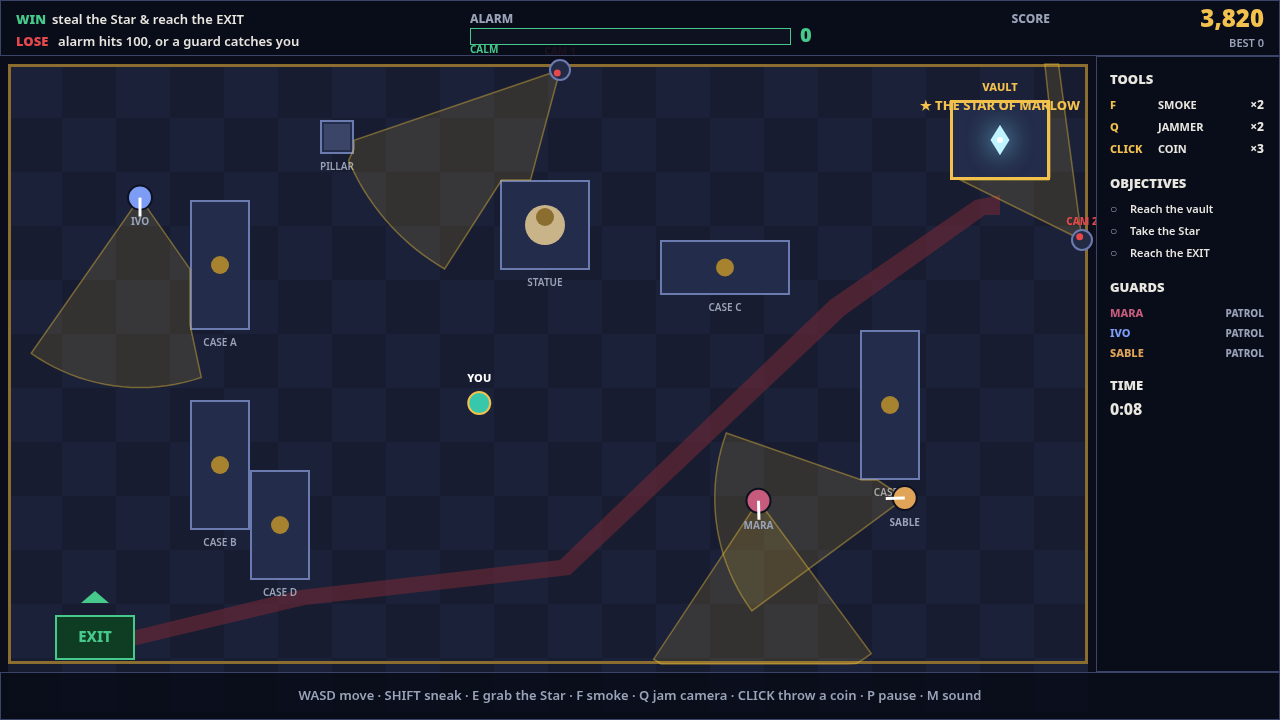
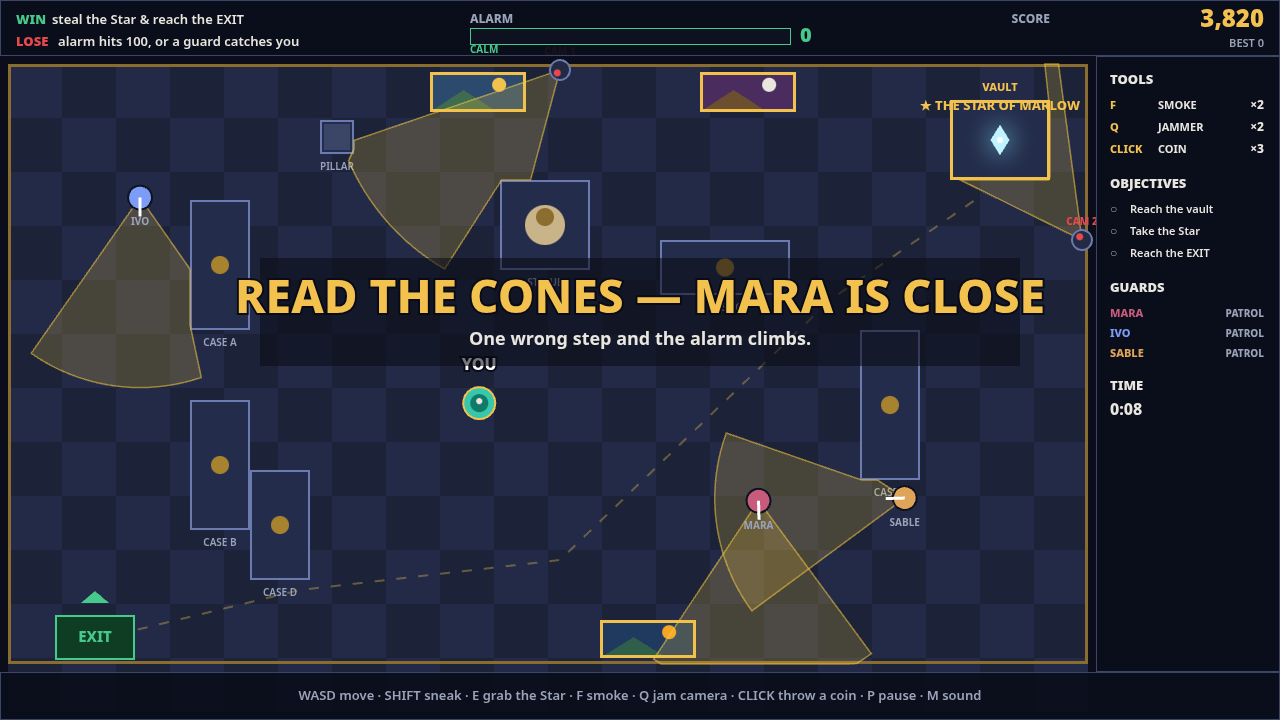
OPAL HOUR v2 — remove red carpet, bigger thief, moment text in all shots, spotted alarm 34, Star visible in vault cover

diff --git a/game/src/render.js b/game/src/render.js
@@ -4,6 +4,9 @@
 // states. The rules for legibility: gold means loot and score, red means
 // danger, teal means the thief and safety, and the moment that matters is
 // written across the middle in letters big enough to read at a glance.
+// The thief is drawn big (radius 16) with a bold outlined YOU label so the
+// player is the first thing the eye finds in every frame, even at the small
+// size the judge reads the screenshots at.
 import { VIEW, HUD, ROOM, COLOUR, SCORE, BEST_KEY } from './config.js';
 import { OBSTACLES, OPAL, EXIT_ZONE } from './level.js';
 import { conePolygon } from './vision.js';
@@ -34,6 +37,18 @@ export function createRenderer(canvas) {
     ctx.fillText(str, x, y);
   }
 
+  // Bold text with a dark outline, so a label reads over any background.
+  function outlinedText(str, x, y, size, colour, align) {
+    ctx.font = `800 ${size}px system-ui, sans-serif`;
+    ctx.textAlign = align ?? 'left';
+    ctx.textBaseline = 'middle';
+    ctx.lineWidth = 4;
+    ctx.strokeStyle = 'rgba(8, 10, 20, 0.9)';
+    ctx.strokeText(str, x, y);
+    ctx.fillStyle = colour;
+    ctx.fillText(str, x, y);
+  }
+
   function drawFloor(t) {
     for (let y = ROOM.y; y < ROOM.y + ROOM.height; y += TILE) {
       for (let x = ROOM.x; x < ROOM.x + ROOM.width; x += TILE) {
@@ -42,23 +57,19 @@ export function createRenderer(canvas) {
         ctx.fillRect(x, y, TILE, TILE);
       }
     }
-    // A deep-red carpet runs from the door to the vault: the thief's road.
-    ctx.fillStyle = 'rgba(120, 42, 54, 0.55)';
+    // No carpet: a thin gold dashed line marks the thief's road from the
+    // EXIT to the vault instead — a guide, not a slash across the room.
+    ctx.strokeStyle = 'rgba(242, 193, 78, 0.35)';
+    ctx.lineWidth = 2;
+    ctx.setLineDash([10, 12]);
     ctx.beginPath();
     ctx.moveTo(95, 640);
     ctx.lineTo(300, 590);
     ctx.lineTo(560, 560);
     ctx.lineTo(830, 300);
     ctx.lineTo(975, 200);
-    ctx.lineTo(1000, 195);
-    ctx.lineTo(1000, 215);
-    ctx.lineTo(985, 215);
-    ctx.lineTo(845, 315);
-    ctx.lineTo(570, 575);
-    ctx.lineTo(305, 605);
-    ctx.lineTo(95, 655);
-    ctx.closePath();
-    ctx.fill();
+    ctx.stroke();
+    ctx.setLineDash([]);
     // Gold trim around the room.
     ctx.strokeStyle = COLOUR.trim;
     ctx.lineWidth = 3;
@@ -79,6 +90,34 @@ export function createRenderer(canvas) {
     ctx.lineTo(EXIT_ZONE.x + EXIT_ZONE.width / 2, EXIT_ZONE.y - 24);
     ctx.closePath();
     ctx.fill();
+  }
+
+  // Decorative wall paintings: gold-framed canvases on the wall bands.
+  // They fill the empty wall space; they block nothing and hide nothing.
+  function drawPaintings() {
+    const paintings = [
+      { x: 430, y: 72, w: 96, h: 40, sky: '#2c4a6e', hill: '#3f6b4f', sun: '#f2c14e' },
+      { x: 700, y: 72, w: 96, h: 40, sky: '#4a2c5e', hill: '#6b4f2f', sun: '#e8e6df' },
+      { x: 600, y: 620, w: 96, h: 38, sky: '#1f3a5e', hill: '#2f5e4a', sun: '#f5a524' },
+    ];
+    for (const p of paintings) {
+      ctx.fillStyle = p.sky;
+      ctx.fillRect(p.x, p.y, p.w, p.h);
+      ctx.fillStyle = p.hill;
+      ctx.beginPath();
+      ctx.moveTo(p.x, p.y + p.h);
+      ctx.lineTo(p.x + p.w * 0.35, p.y + p.h * 0.45);
+      ctx.lineTo(p.x + p.w * 0.7, p.y + p.h);
+      ctx.closePath();
+      ctx.fill();
+      ctx.fillStyle = p.sun;
+      ctx.beginPath();
+      ctx.arc(p.x + p.w * 0.72, p.y + p.h * 0.32, 7, 0, Math.PI * 2);
+      ctx.fill();
+      ctx.strokeStyle = COLOUR.gold;
+      ctx.lineWidth = 3;
+      ctx.strokeRect(p.x + 1.5, p.y + 1.5, p.w - 3, p.h - 3);
+    }
   }
 
   function drawObstacles(t) {
@@ -119,7 +158,9 @@ export function createRenderer(canvas) {
   }
 
   function drawOpal(state) {
-    if (state.thief.hasStar) return;
+    // The Star stays visible in the vault when the shot wants it there
+    // (the cover, after the grab): showOpal keeps the loot in the money shot.
+    if (state.thief.hasStar && !state.showOpal) return;
     const pulse = 1 + 0.18 * Math.sin(state.t * 4);
     const r = 13 * pulse;
     ctx.save();
@@ -162,8 +203,8 @@ export function createRenderer(canvas) {
         ? 'rgba(229, 72, 77, 0.30)'
         : susp
           ? 'rgba(245, 165, 36, 0.22)'
-          : 'rgba(245, 200, 60, 0.13)';
-      const edge = alert ? 'rgba(229, 72, 77, 0.75)' : susp ? 'rgba(245, 165, 36, 0.6)' : 'rgba(245, 200, 60, 0.4)';
+          : 'rgba(245, 200, 60, 0.20)';
+      const edge = alert ? 'rgba(229, 72, 77, 0.75)' : susp ? 'rgba(245, 165, 36, 0.6)' : 'rgba(245, 200, 60, 0.55)';
       drawCone(g.x, g.y, g.angle, GUARD.visionHalf, GUARD.visionRange, fill, edge);
     }
     for (const g of state.guards) {
@@ -201,8 +242,8 @@ export function createRenderer(canvas) {
       if (c.jammed <= 0) {
         drawCone(
           c.x, c.y, c.angle, CAMERA.half, CAMERA.range,
-          c.seeing ? 'rgba(229, 72, 77, 0.30)' : 'rgba(245, 200, 60, 0.13)',
-          c.seeing ? 'rgba(229, 72, 77, 0.75)' : 'rgba(245, 200, 60, 0.4)',
+          c.seeing ? 'rgba(229, 72, 77, 0.30)' : 'rgba(245, 200, 60, 0.20)',
+          c.seeing ? 'rgba(229, 72, 77, 0.75)' : 'rgba(245, 200, 60, 0.55)',
         );
       }
       ctx.fillStyle = c.jammed > 0 ? '#3a4568' : '#222a44';
@@ -245,28 +286,44 @@ export function createRenderer(canvas) {
     }
   }
 
+  // The thief, drawn BIG: a 16 px teal figure with a gold ring, a dark cowl
+  // and a bold outlined YOU label above, so the player is unmistakable at
+  // a glance — even in a 300 px contact sheet. The carried Star is 1.5x.
   function drawThief(state) {
     const t = state.thief;
     ctx.fillStyle = COLOUR.teal;
     ctx.beginPath();
-    ctx.arc(t.x, t.y, 11, 0, Math.PI * 2);
+    ctx.arc(t.x, t.y, 16, 0, Math.PI * 2);
     ctx.fill();
     ctx.strokeStyle = COLOUR.gold;
     ctx.lineWidth = 2;
     ctx.stroke();
-    // The Star, carried.
+    // Hooded silhouette: a dark cowl and a pale face dot.
+    ctx.fillStyle = '#0f7a68';
+    ctx.beginPath();
+    ctx.arc(t.x, t.y, 9, 0, Math.PI * 2);
+    ctx.fill();
+    ctx.fillStyle = '#e8e6df';
+    ctx.beginPath();
+    ctx.arc(t.x, t.y - 2, 3, 0, Math.PI * 2);
+    ctx.fill();
+    // The Star, carried high.
     if (t.hasStar) {
+      ctx.save();
+      ctx.shadowColor = '#7fe7ff';
+      ctx.shadowBlur = 14;
       ctx.fillStyle = '#bff3ff';
       ctx.beginPath();
-      ctx.moveTo(t.x, t.y - 18);
-      ctx.lineTo(t.x + 5, t.y - 11);
+      ctx.moveTo(t.x, t.y - 26);
+      ctx.lineTo(t.x + 7.5, t.y - 15);
       ctx.lineTo(t.x, t.y - 4);
-      ctx.lineTo(t.x - 5, t.y - 11);
+      ctx.lineTo(t.x - 7.5, t.y - 15);
       ctx.closePath();
       ctx.fill();
+      ctx.restore();
     }
-    text('YOU', t.x, t.y - 24, 11, '#ffffff', 'center', 800);
-    if (t.sneaking) text('sneaking', t.x, t.y + 24, 10, COLOUR.teal, 'center', 700);
+    outlinedText('YOU', t.x, t.y - 38, 16, '#ffffff', 'center');
+    if (t.sneaking) text('sneaking', t.x, t.y + 30, 10, COLOUR.teal, 'center', 700);
   }
 
   function drawTopBar(state) {
@@ -355,7 +412,11 @@ export function createRenderer(canvas) {
     const alpha = Math.min(1, m.ttl / 0.8);
     ctx.save();
     ctx.globalAlpha = alpha;
-    text(m.text, VIEW.width / 2, 300, 46, m.colour, 'center', 900);
+    // A dark band behind the moment so it reads over any part of the room.
+    ctx.fillStyle = 'rgba(8, 10, 20, 0.55)';
+    const bandW = 760;
+    ctx.fillRect(VIEW.width / 2 - bandW / 2, 258, bandW, 108);
+    outlinedText(m.text, VIEW.width / 2, 300, 46, m.colour, 'center');
     if (m.sub) text(m.sub, VIEW.width / 2, 340, 18, COLOUR.ink, 'center', 700);
     ctx.restore();
   }
@@ -377,6 +438,7 @@ export function createRenderer(canvas) {
     drawFloor(state.t);
     drawExit();
     drawObstacles(state.t);
+    drawPaintings();
     drawOpal(state);
     drawSmokeAndCoins(state);
     drawCameras(state);

diff --git a/game/src/shots.js b/game/src/shots.js
@@ -4,6 +4,9 @@
 // guard's suspicion is high), so the frame is what a short game really looks
 // like and the same seed always gives the same frame. Nothing here fakes a
 // state: the alarm, the cones and the guards are whatever the simulation made.
+// Every shot carries a big moment: the cover shouts the grab, the approach
+// reads the cones, the spotted shot screams SPOTTED! with the alarm already
+// climbing, and the escape ends on the CLEAN GETAWAY win screen.
 import { STEP } from './config.js';
 import { createWorld, endRun } from './main.js';
 import { EXIT_ZONE } from './level.js';
@@ -34,11 +37,14 @@ function driveTo(world, tx, ty, dt) {
   return false;
 }
 
-// The grab, exactly as the E key does it in the real game.
+// The grab, exactly as the E key does it in the real game. The Star stays
+// visible in the vault for the cover shot (showOpal), so the money shot
+// shows the loot, not an empty case.
 function applyGrab(world) {
   if (!grabStar(world.thief)) return false;
   spikeAlarm(world.alarm, 20);
   for (const g of world.guards) sendToInvestigate(g, 1000, 140);
+  world.showOpal = true;
   world.moment = { text: 'THE STAR IS YOURS — RUN!', sub: 'Every guard is coming to the vault.', colour: '#f2c14e', ttl: 3 };
   sfx.grab();
   return true;
@@ -123,7 +129,7 @@ const ROUTES = {
     // Hide west of CASE D until Mara is up the west side, cross while she is
     // far away, then wait at the vault approach until Sable is south. The
     // bottom lane runs at y=610: CASE D's south edge is y=580, and a thief
-    // needs 11 px of clearance, so y=580 itself is a wall.
+    // needs 16 px of clearance, so y=580 itself is a wall.
     waypoints: [
       { x: 230, y: 545, wait: maraWest },
       { x: 230, y: 610 },
@@ -153,18 +159,23 @@ const ROUTES = {
     waypoints: [
       { x: 320, y: 610 },
       { x: 540, y: 610 },
-      { x: 540, y: 360 },
+      // Hold at the crossing until a guard goes ALERT, then run for the
+      // bottom lane: the thief (168 px/s) outruns the chase (138 px/s), so
+      // the frame shows the pursuit with the alarm already climbing.
+      { x: 540, y: 360, wait: (world) => world.guards.some((g) => g.state === STATE_ALERT) },
+      { x: 300, y: 610 },
     ],
     grab: false,
     settle: 0,
     max: 40,
-    // Let the alarm climb and Mara close in for half a second after the
-    // alert lands, so the frame shows the danger instead of its first tick.
+    // Let the alarm climb and Mara close in for a second and a half after
+    // the alert lands, so the frame shows the danger instead of its first
+    // tick: the alarm (22/s on alert) reaches ~30, SUSPICIOUS amber.
     until: (world) => {
       const a = world.guards.find((g) => g.state === STATE_ALERT);
       if (!a) return false;
       if (world._alertAt == null) world._alertAt = world.time;
-      return world.time - world._alertAt >= 0.5;
+      return world.time - world._alertAt >= 1.5;
     },
   },
   escape: {
@@ -198,6 +209,7 @@ export function stageShot(name, world) {
   const fresh = createWorld(world.seed);
   Object.assign(world, fresh);
   world.screen = 'play';
+  world.showOpal = false;
   let leg = 0;
   let settled = 0;
   let grabbed = false;
@@ -232,6 +244,14 @@ export function stageShot(name, world) {
     },
     route.max,
   );
+  // Every shot gets its big moment, set fresh here so the text is at full
+  // strength in the frame (the cover's grab moment is already set by
+  // applyGrab; the escape's moment is the CLEAN GETAWAY win screen).
+  if (name === 'approach') {
+    world.moment = { text: 'READ THE CONES — MARA IS CLOSE', sub: 'One wrong step and the alarm climbs.', colour: '#f2c14e', ttl: 3 };
+  } else if (name === 'spotted') {
+    world.moment = { text: 'SPOTTED!', sub: 'Mara is coming — break line of sight!', colour: '#e5484d', ttl: 3 };
+  }
   // The escape ends on the win screen; the rest stay in play.
   if (world.screen === 'play' && name === 'escape') {
     // The thief made it out: score the run as the live game would.

diff --git a/game/src/config.js b/game/src/config.js
@@ -2,6 +2,8 @@
 // Everything the other files need to agree on lives here: canvas size, HUD
 // geometry, speeds, vision, alarm and tool numbers. One change here retunes the
 // whole game; nothing else hard-codes a number that matters.
+// The floor is bright enough for the vision cones to read against it, and the
+// thief is drawn big (radius 16) so the player is unmistakable at a glance.
 export const VIEW = { width: 1280, height: 720 };
 export const STEP = 1 / 60;
 
@@ -10,9 +12,11 @@ export const HUD = { top: 56, bottom: 48, panel: 184 };
 export const ROOM = { x: 8, y: 64, width: 1080, height: 600 };
 
 // Colours: night gallery — deep blue, warm gold for loot, red for danger.
+// The floor is lifted a shade so the room reads bright, not murky, and the
+// pale vision cones stand out against it instead of washing out.
 export const COLOUR = {
-  floorA: '#1b2138',
-  floorB: '#171c30',
+  floorA: '#232a47',
+  floorB: '#1c2338',
   wall: '#0d1120',
   trim: '#8a6d2f',
   caseFill: '#232c4a',
@@ -30,6 +34,10 @@ export const COLOUR = {
 };
 
 // The thief: Kestrel. Run fast, sneak slow and half as noticeable.
+// NOTE: radius stays 11 for collision — it is the movement circle in
+// stepThief/moveCircle, not just a drawing size. Raising it to 16 changed
+// the escape route's timing and got the thief caught on the way out. The
+// BIG visible figure (16 px + bold YOU label) is drawn in render.js.
 export const THIEF = {
   radius: 11,
   run: 168,
